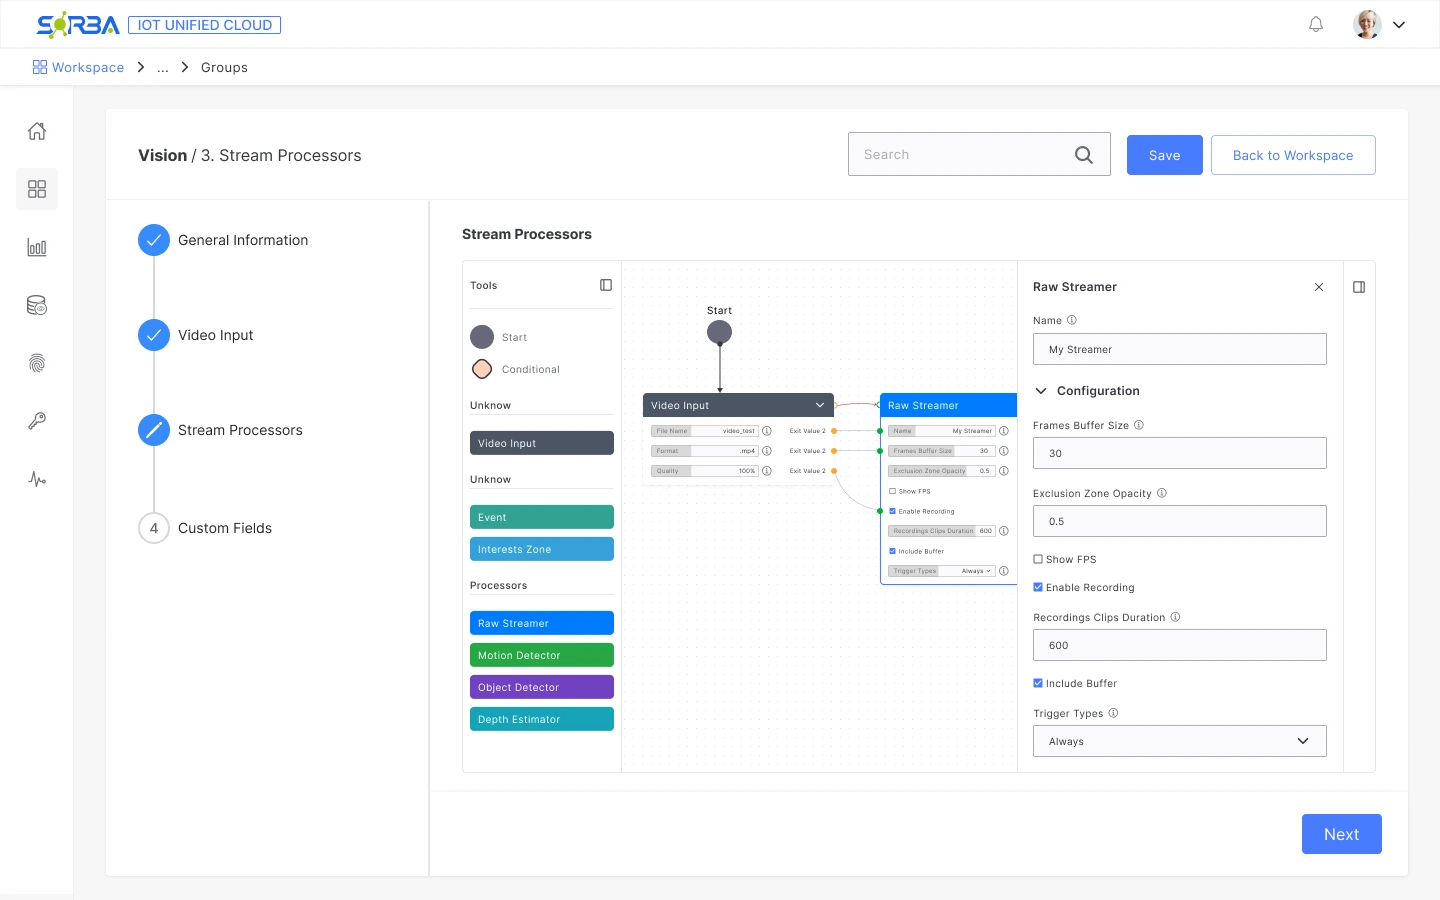
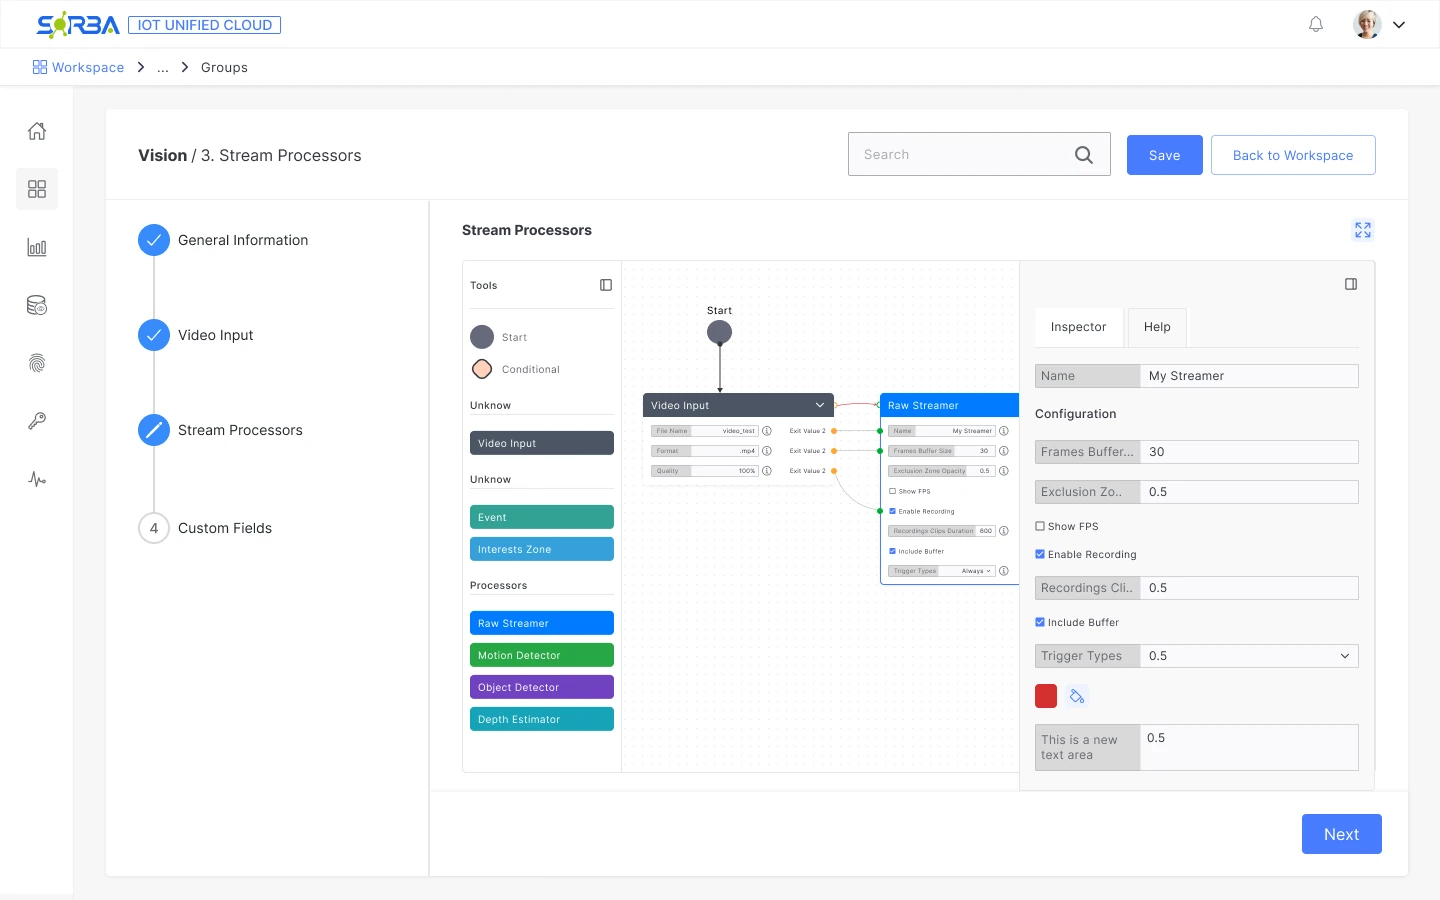
Vision: updated product screens with the new maximize control; show maximized view
- Replace hero, inspector, interests-zone, tools-palette crop, home card and OG image with the new exports
- Iteration 1 now shows the embedded canvas and the maximized view (placeholder removed)
- Inline shots use 16:10 so full screens show without letterbox

diff --git a/vision.html b/vision.html
@@ -137,7 +137,7 @@
 
       <figure class="case-hero-image figure">
         <div class="shot shot--hero">
-          <img src="assets/img/vision-hero.webp" alt="The Vision Stream Processors step: a tools palette beside a canvas where a Video Input node connects to a Raw Streamer, an Interests Zone and event nodes" width="1440" height="900" fetchpriority="high">
+          <img src="assets/img/vision-hero.webp" alt="The Vision Stream Processors step: a tools palette beside a canvas where a Video Input node connects to a Raw Streamer, an Interests Zone and event nodes, with an expand control at the top right of the canvas" width="1440" height="900" fetchpriority="high">
         </div>
         <figcaption class="fig-caption">Vision’s Stream Processors step. The canvas makes connections visible; the wider setup stays guided. Select any product image to enlarge it.</figcaption>
       </figure>
@@ -378,11 +378,10 @@
                   <p class="sub-label sub-label--accent">Changed</p>
                   <p style="color:var(--ink)">I added a way to maximize the canvas to full screen.</p>
                 </div>
-                <div class="shot shot--inline"><img src="assets/img/vision-canvas-in-page.webp" alt="The canvas inside the page with a side panel open" width="1440" height="900" loading="lazy"></div>
-                <p class="footnote">The embedded canvas before expansion.</p>
-                <aside class="placeholder" data-placeholder="vision-fullscreen-comparison">
-                  <strong>Placeholder · expanded canvas</strong><p>The same pipeline maximized, with the expand and restore control visible (16:10).</p>
-                </aside>
+                <div class="shot shot--inline"><img src="assets/img/vision-inspector.webp" alt="The canvas inside the page with the inspector open and a new expand control at the top right of the canvas" width="1440" height="900" loading="lazy"></div>
+                <p class="footnote">Embedded, with the new expand control at the top right.</p>
+                <div class="shot shot--inline"><img src="assets/img/vision-canvas-maximized.webp" alt="The maximized canvas in a full-window dialog titled Stream Processors, with the tools palette, the graph, the Interests Zone editor and the inspector, and a Close control" width="1440" height="900" loading="lazy"></div>
+                <p class="footnote">Maximized: the whole window for the canvas, with a Close control.</p>
               </article>
               <article class="card card--change">
                 <p class="card__num">ITERATION 2</p>

diff --git a/assets/css/styles.css b/assets/css/styles.css
@@ -999,3 +999,4 @@ h1, h2, h3 { text-wrap: balance; }
 
 /* Reference screenshots fill their frame edge to edge (no white letterbox). */
 .case .shot--ref img { object-fit: cover; }
+.case .shot--inline { aspect-ratio: 16 / 10; }
